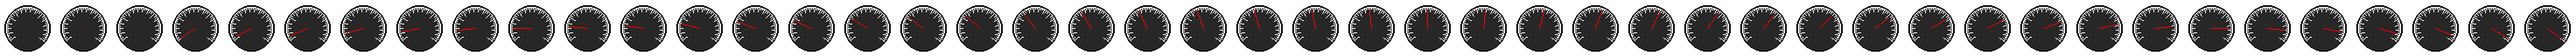
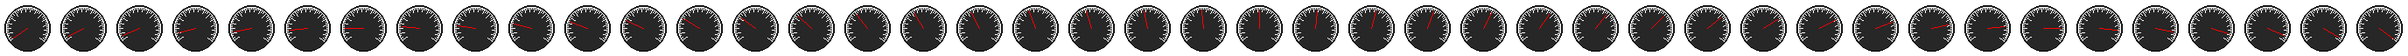
UIs are in

diff --git a/src/scenes/PlayS.js b/src/scenes/PlayS.js
@@ -6,12 +6,13 @@ class PlayS extends Phaser.Scene {
     preload() {
         this.load.image('player1', './assets/image/Player1.png');
         this.load.image('player2', './assets/image/Player2.png');
-        this.load.image('steeringWheel', './assets/image/UI_steeringwheel.png');
-        this.load.image('steeringWheel2', './assets/image/UI_steeringwheel2.png');
         this.load.image('livingRoom', './assets/image/livingRoom.png');
         this.load.image('bathroom', './assets/image/bathroom.png');
         this.load.image('kitchen', './assets/image/kitchen.png');
         this.load.image('background', './assets/image/background.png');
+        this.load.image('UI_item', './assets/image/UI_item.png');
+        this.load.image('UI_steeringwheel', './assets/image/UI_steeringwheel.png');
+        this.load.spritesheet('UI_speed', './assets/image/UI_speed.png', { frameWidth: 64, frameHeight: 64, startFrame: 0, endFrame: 42 });
         this.load.spritesheet('start_light', './assets/image/start_light.png', { frameWidth: 137, frameHeight: 66, startFrame: 0, endFrame: 3 });
         this.load.spritesheet('go_effect', './assets/image/go.png', { frameWidth: 200, frameHeight: 200, startFrame: 0, endFrame: 6 });
         this.load.spritesheet('firework', './assets/image/firework.png', { frameWidth: 200, frameHeight: 200, startFrame: 0, endFrame: 2 });
@@ -43,19 +44,34 @@ class PlayS extends Phaser.Scene {
             frameRate: 10,
         })
 
+        // create speed increase animation for speed meter
+        this.anims.create({
+            key: 'speed_increase',
+            frames: this.anims.generateFrameNumbers('UI_speed', { start: 0, end: 42, first: 0 }),
+            frameRate: 5,
+        })
+        
+        // create animation for speed meter
+        this.anims.create({
+            key: 'speed_decrease',
+            frames: this.anims.generateFrameNumbers('UI_speed', { start: 0, end: 42, first: 0 }),
+            frameRate: 5,
+        }) 
+
         this.matter.world.setBounds(0, 0, 1400, 1400);
         //this.matter.world.setBounds().disableGravity();
         //console.log(this.matter.world.walls)
 
+        /*
         this.add.text(20, 20, "Gameplay Scene");
         this.add.text(20, 40, "press 1 to go back to Main Menu");
         this.add.text(20, 60, "press 2 to go back to Player movement menu");
         this.add.text(20, 80, "Player1: Arrow keys to move");
-        this.add.text(20, 100, "Player2: WASD to move");
+        this.add.text(20, 100, "Player2: WASD to move");*/
 
-        this.add.image(700, 700, 'background').setScale(2);
-        this.add.image(700, 700, 'livingRoom').setScale(2);
-
+        // add background track
+        this.background = this.add.image(700, 700, 'background').setScale(2);
+        this.livingRoom = this.add.image(700, 700, 'livingRoom').setScale(2);
 
         // Add player
         this.player = this.matter.add.sprite(1270, 1150, 'player1').setOrigin(0.5, 0);
@@ -68,7 +84,12 @@ class PlayS extends Phaser.Scene {
         })
 
         // Steeringwheel for player
-        this.SteeringWheel = this.matter.add.sprite(1500, 1500, 'steeringWheel').setOrigin(0.5, 0);
+        this.SteeringWheel = this.matter.add.sprite(-425, -95, 'UI_steeringwheel').setScale(2.5);
+        this.SteeringWheel.setCollisionGroup(-1); // Make sure steeringwheels don't collide with each other.
+
+        // Animation delay for Steeringwheel
+        this.SteeringWheelAnim = true;
+        this.SteeringWheelAnim2 = true;
 
         // Add player2
         this.player2 = this.matter.add.sprite(1335, 1150, 'player2').setOrigin(0.5, 0);
@@ -81,18 +102,63 @@ class PlayS extends Phaser.Scene {
         })
 
         // Steeringwheel for player2
-        this.SteeringWheel2 = this.matter.add.sprite(1550, 1550, 'steeringWheel2').setOrigin(0.5, 0);
+        this.SteeringWheel2 = this.matter.add.sprite(-425, -95, 'UI_steeringwheel').setScale(2.5);
+        this.SteeringWheel2.setCollisionGroup(-1); // Make sure steeringwheels don't collide with each other.
+
+        // Animation delay for Steeringwheel2
+        this.SteeringWheelAnim3 = true;
+        this.SteeringWheelAnim4 = true;
 
         // Prevent players moving during countdown
         this.canMove = false;
+
+        // Add player UI group
+        this.player_UI = this.add.group();
+            {   
+                // item
+                this.UI1_item = this.add.image(-100, -450, 'UI_item').setScale(2.5);
+
+                // speed meter
+                this.UI1_speed = this.add.sprite(-80, -83, 'UI_speed').setScale(2);
+                this.UI1_speed.anims.load('speed_increase');
+
+                // add objects to group
+                this.player_UI.addMultiple([this.UI1_item, this.UI1_speed]);
+            }
+        
+        // Add player2 UI group
+        this.player2_UI = this.add.group();
+            {   
+                // item
+                this.UI2_item = this.add.image(-100, -450, 'UI_item').setScale(2.5);
+
+                // speed meter
+                this.UI2_speed = this.add.sprite(-80, -83, 'UI_speed').setScale(2);
+                this.UI2_speed.anims.load('speed_increase');
+
+                // add objects to group
+                this.player2_UI.addMultiple([this.UI2_item, this.UI2_speed]);
+            }
 
         // Add 2 cameras for split screen.
         this.camera = this.cameras.main.setViewport(0, 0, (game.config.width/2), game.config.height);
         this.camera.startFollow(this.player, true, 1, 1, 0, 0);
         this.camera.setZoom(1.15);
+
+        //this.camera.ignore(this.player_UI);
         this.camera2 = this.cameras.add(centerX, 0, (game.config.width/2), game.config.height);
         this.camera2.startFollow(this.player2, true, 1, 1, 0, 0);
         this.camera2.setZoom(1.15);
+
+        // Add UI Camera for camera 1
+        this.UICamera = this.cameras.add(0, 0, (game.config.width/2), game.config.height);
+        this.UICamera.setScroll(-500,-500);
+        this.UICamera.ignore([this.player2_UI, this.SteeringWheel2]);
+
+        // Add UI Camera for camera 2
+        this.UICamera2 = this.cameras.add(centerX, 0, (game.config.width/2), game.config.height);
+        this.UICamera2.setScroll(-500,-500);
+        this.UICamera2.ignore([this.player_UI, this.SteeringWheel]);
 
         // define keys
         keyONE = this.input.keyboard.addKey(Phaser.Input.Keyboard.KeyCodes.ONE);
@@ -152,6 +218,42 @@ class PlayS extends Phaser.Scene {
             },
             loop: false
         })
+        
+        // delay for steeringwheel animation
+        this.time.addEvent({
+            delay: 190, // 0.19 second 
+            callback: () => {
+                this.SteeringWheelAnim = true;
+            },
+            loop: true
+        })
+
+        // shorter delay for steeringwheel animation
+        this.time.addEvent({
+            delay: 180, // 0.18 second 
+            callback: () => {
+                this.SteeringWheelAnim2 = true;
+            },
+            loop: true
+        })
+
+        // delay for steeringwheel2 animation
+        this.time.addEvent({
+            delay: 190, // 0.19 second 
+            callback: () => {
+                this.SteeringWheelAnim3 = true;
+            },
+            loop: true
+        })
+
+        // shorter delay for steeringwheel2 animation
+        this.time.addEvent({
+            delay: 180, // 0.18 second 
+            callback: () => {
+                this.SteeringWheelAnim4 = true;
+            },
+            loop: true
+        })
     }
 
     update() {
@@ -197,19 +299,67 @@ class PlayS extends Phaser.Scene {
 
             // Car acceleration and deceleration
             if (keyUP.isDown) {
+                if(this.carSpeed >= 0){
+                    // Play speed meter increase animation
+                    if(this.SteeringWheelAnim){
+                        this.UI1_speed.anims.nextFrame();
+                        this.SteeringWheelAnim = false;
+                    }
+                }
+                else{
+                    // Play speed meter decrease animation
+                    if(this.SteeringWheelAnim2){
+                        this.UI1_speed.anims.previousFrame();
+                        this.SteeringWheelAnim2 = false;
+                    }
+                }
                 this.carSpeed += 0.01;
             }
             else {
                 if (this.carSpeed >= 0) {
+                    // Play speed meter decrease animation
+                    if(this.SteeringWheelAnim){
+                        this.UI1_speed.anims.previousFrame();
+                        this.SteeringWheelAnim = false;
+                    }
+
                     this.carSpeed -= 0.01;
                 }
             }
 
             if (keyDOWN.isDown) {
+                if(this.carSpeed <= 0){
+                    // Play speed meter increase animation
+                    if(this.SteeringWheelAnim){
+                        this.UI1_speed.anims.nextFrame();
+                        this.SteeringWheelAnim = false;
+                    }
+                }
+                else{
+                    // Play speed meter decrease animation
+                    if(this.SteeringWheelAnim2){
+                        this.UI1_speed.anims.previousFrame();
+                        this.SteeringWheelAnim2 = false;
+                    }
+                }
                 this.carSpeed -= 0.01;
             }
             else {
                 if (this.carSpeed <= 0) {
+                    if(this.carSpeed <= 0){
+                        // Play speed meter decrease animation
+                        if(this.SteeringWheelAnim){
+                            this.UI1_speed.anims.previousFrame();
+                            this.SteeringWheelAnim = false;
+                        }
+                    }
+                    else{
+                        // Play speed meter increase animation
+                        if(this.SteeringWheelAnim){
+                            this.UI1_speed.anims.nextFrame();
+                            this.SteeringWheelAnim = false;
+                        }
+                    }
                     this.carSpeed += 0.01;
                 }
             }
@@ -268,19 +418,67 @@ class PlayS extends Phaser.Scene {
 
             // Car acceleration and deceleration
             if (keyW.isDown) {
+                if(this.carSpeed2 >= 0){
+                    // Play speed meter increase animation
+                    if(this.SteeringWheelAnim3){
+                        this.UI2_speed.anims.nextFrame();
+                        this.SteeringWheelAnim3 = false;
+                    }
+                }
+                else{
+                    // Play speed meter decrease animation
+                    if(this.SteeringWheelAnim4){
+                        this.UI2_speed.anims.previousFrame();
+                        this.SteeringWheelAnim4 = false;
+                    }
+                }
                 this.carSpeed2 += 0.01;
             }
             else {
                 if (this.carSpeed2 >= 0) {
+                    // Play speed meter decrease animation
+                    if(this.SteeringWheelAnim3){
+                        this.UI2_speed.anims.previousFrame();
+                        this.SteeringWheelAnim3 = false;
+                    }
+
                     this.carSpeed2 -= 0.01;
                 }
             }
 
             if (keyS.isDown) {
+                if(this.carSpeed2 <= 0){
+                    // Play speed meter increase animation
+                    if(this.SteeringWheelAnim3){
+                        this.UI2_speed.anims.nextFrame();
+                        this.SteeringWheelAnim3 = false;
+                    }
+                }
+                else{
+                    // Play speed meter decrease animation
+                    if(this.SteeringWheelAnim4){
+                        this.UI2_speed.anims.previousFrame();
+                        this.SteeringWheelAnim4 = false;
+                    }
+                }
                 this.carSpeed2 -= 0.01;
             }
             else {
                 if (this.carSpeed2 <= 0) {
+                    if(this.carSpeed2 <= 0){
+                        // Play speed meter decrease animation
+                        if(this.SteeringWheelAnim3){
+                            this.UI2_speed.anims.previousFrame();
+                            this.SteeringWheelAnim3 = false;
+                        }
+                    }
+                    else{
+                        // Play speed meter increase animation
+                        if(this.SteeringWheelAnim3){
+                            this.UI2_speed.anims.nextFrame();
+                            this.SteeringWheelAnim3 = false;
+                        }
+                    }
                     this.carSpeed2 += 0.01;
                 }
             }

diff --git a/src/scenes/Play.js b/src/scenes/Play.js
@@ -7,7 +7,6 @@ class Play extends Phaser.Scene {
     preload() {
         this.load.image('player1', './assets/image/Player1.png');
         this.load.image('player2', './assets/image/Player2.png');
-        this.load.image('steeringWheel', './assets/image/waypoint.png');
     }
 
     create() {
